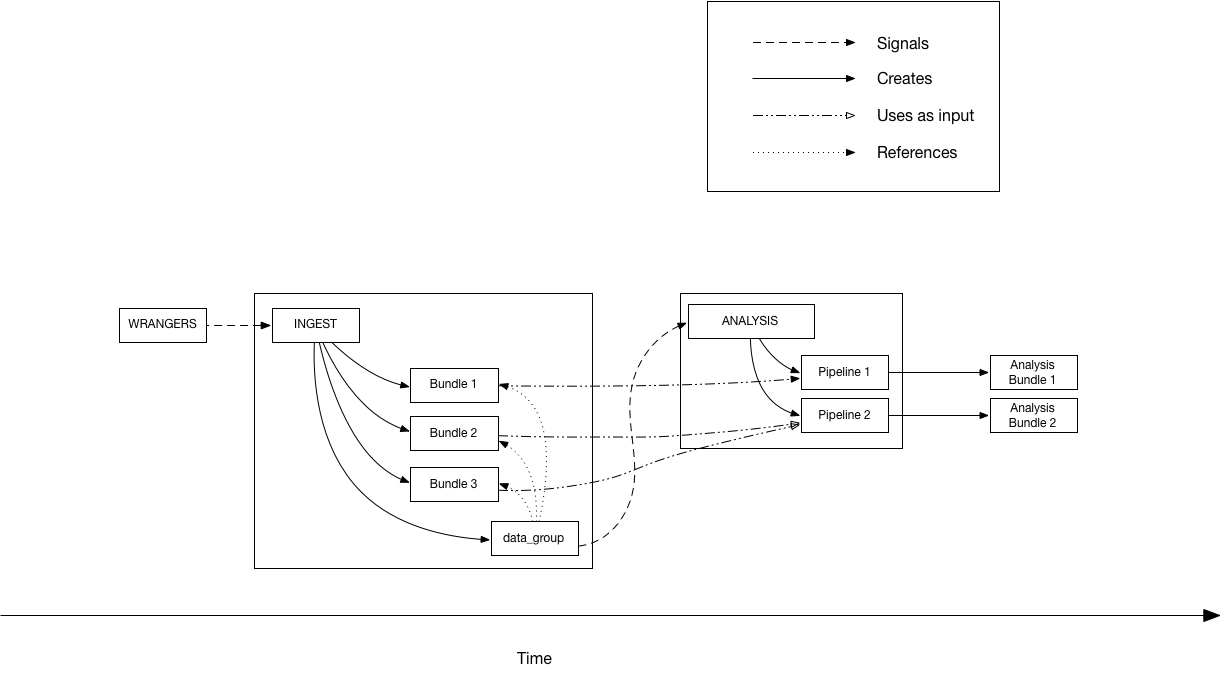
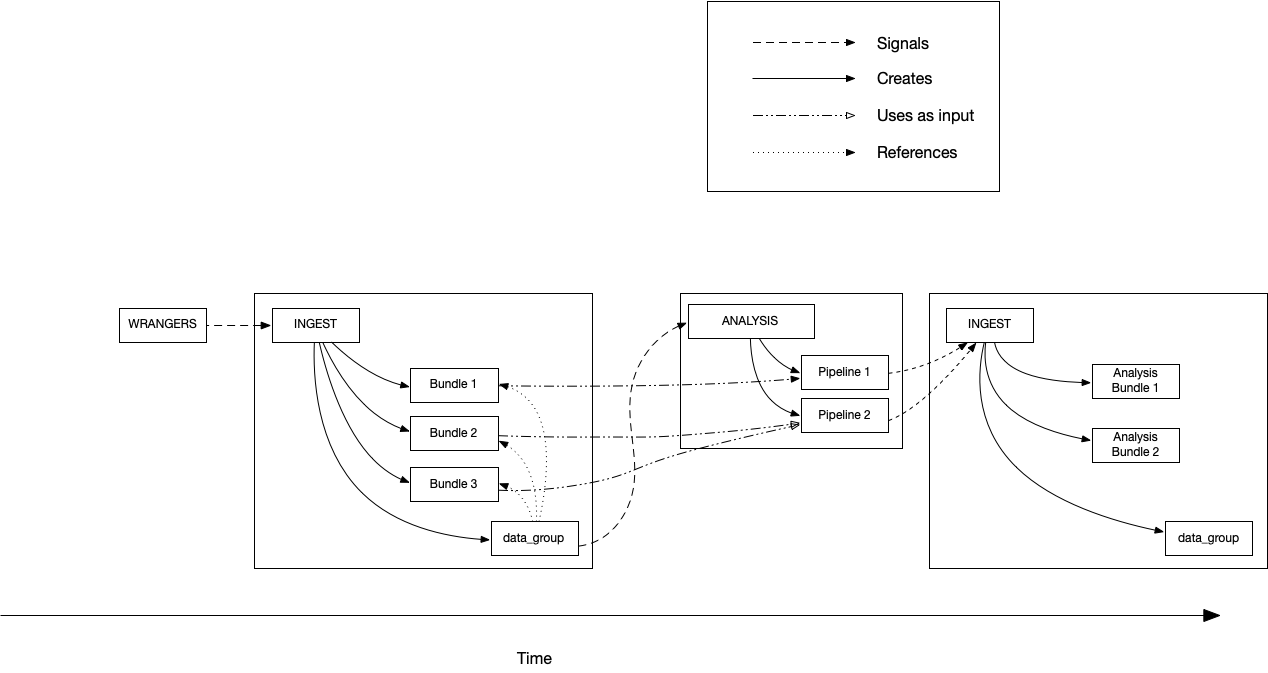
Clarified and address some of the unresolved issues.  update figures and text to more clearly specify anaysis data groups

diff --git a/rfcs/text/0000-multi-data-collection-dataset-processing.md b/rfcs/text/0000-multi-data-collection-dataset-processing.md
@@ -4,7 +4,7 @@
 
 `[dcp-community/rfc#](https://github.com/HumanCellAtlas/dcp-community/pull/<PR#>)`
 
-# RFC: Processing Datasets that Span Multiple Bundles
+# RFC: Data Groups: Processing Datasets that Span Multiple Bundles
 
 ## Summary
 This RFC proposes a solution to allow processing of datasets that span multiple bundles. It addresses the general problem that the current DCP data model contains no representation of data set grouping and version-completeness beyond that of individual data bundles.  The current DCP model is restricted in that all data processing can be a one-to-one linear sequence of steps deriving one bundle from another.
@@ -62,11 +62,12 @@ A new concept of *data group* is added to the DCP data model to address these is
 
 A data group has a symbolic scope type that specifies what is represented by the group, as well a the set of criteria by which it is complete.  Most of the above use cases will require a *project submission* scope that indicates submission to a project is complete.
 
-Data groups are implemented as a new bundle type that contains a JSON file listing the FQIDs (UUIDs with versions) of all bundles in the data group. The existing DSS subscription mechanism is used for notifications.
+Data groups are implemented as a new bundle type that contains a JSON file listing the FQIDs (UUIDs with versions) of all bundles in the data group. The existing DSS subscription mechanism is used for notifications.  DSS collections were considered as a possible implementation, however they don't support subscriptions and are not indexed, so they are not a sufficient mechanism for implementing *data groups*.
 
 A new schema *data_group* will be created that contains the fields:
 - *scope* - Symbolic name of the scope, for example, *PROJECT_SUBMISSION*.
 - *bundle_fqids* - List of FQIDs of bundles that are in the group.
+
 
 
 See also:
@@ -75,7 +76,7 @@ See also:
 
 Initially, only the *PROJECT_SUBMISSION* scope will be implemented. *PROJECT_SUBMISSION* will indicate that the entirety of single project submission is version-complete and will be generated by Ingest only after all data bundles are committed to the DSS. The generation of the *PROJECT_SUBMISSION* data group indicates that data in the project submission should be processed by downstream components.  Ingest is responsible for creating *PROJECT_SUBMISSION* *data groups* after the relevant bundles have been created.  Figure 1 shows a diagram of a project with multiple *data groups*.
 
-![Figure 1](/rfcs/images/0000-multi-data-collection-data-processing-images/project-submission-in-project.png)
+![Figure 1](../images/0000-multi-data-collection-data-processing-images/project-submission-in-project.png)
 
 
 ## Application to analysis pipelines
@@ -89,11 +90,11 @@ For full background and a detailed proposal on how these libraries are represent
 
 The *data group* submission event does not define bundles to be co-processed, it indicates that data to be co-processed is contained within the *data group* and that that group fulfills version-completeness requirements. Co-processing will be initiated by pipelines based on a well-defined set of rules that is data modality-specific.  The partition of a submission *data group* into co-processing units may require multiple parameters. For instance, with 10X V2 3’ scRNA-seq is grouped by library, however, a submission my contain non-10X data modalities that need to be processed separately.
 
-An analysis pipeline event handler component will be created that is responsible for partitioning a *data group* into co-processing units, dispatching the pipelines, and tracking completion. This is the responsibility of Analysis.
+An analysis pipeline event handler component will be created that is responsible for partitioning a *data group* into co-processing units, dispatching the pipelines, and tracking completion. This is the responsibility of Analysis.  When analysis results are submitted to ingest, this creates a secondary analysis *data group*.
 
 The creation and update of *PROJECT_SUBMISSIONS* *data groups*, both primary and secondary, is the responsibility of the Ingest system.
 
-![Figure 2](/rfcs/images/0000-multi-data-collection-data-processing-images/flow-of-information.png)
+![Figure 2](../images/0000-multi-data-collection-data-processing-images/flow-of-information.png)
 Figure 2: Flow of information in the proposed data model
 
 #### Updates to *data groups*
@@ -102,12 +103,13 @@ Updates to *PROJECT_SUBMISSIONS* must result in updating of the associated *data
 *Data group* updates may result from creating new bundles to add additional types of data to a project, or updating bundles to change metadata or append data to data files (e.g. FASTQ top-up).
 
 ### Unresolved Questions
-* *Data group* concept relates directly to the UX discussion on *experiment data sets*.  This RFC and that work could be unified and replace PROJECT_SUBMISSIONS
-* How *data groups* are to be used group results in secondary analysis has not yet been defined.
-* Could a *data group* be a DSS collection?  Collections are poorly document, so it is unclear if they can fit the needs.
+#### Aspects of the design to be resolved during implementation:
 * Where does the *data group* JSON schema belong?  It is not part of the experimental data model, so doesn't fit in the current hierarchy.
-* Could a *data group* be a bundle that contains the *data group* files rather than a list of bundles?  Can the DSS handle bundles with a very large number of files?
-* How does this framework interact with new modalities we are likely to encounter in the future. A good example of this is imaging data?
+
+* The bundle types for primary vs secondary *data groups* needs to be defined.
+
+#### Aspects of the design to be resolved in the future
+* *Data group* concept relates directly to the UX discussion on *experiment data sets*.  This RFC and that work could be unified with a direct mapping between *experiment* and *data groups*.
 
 ## Dependencies
 
